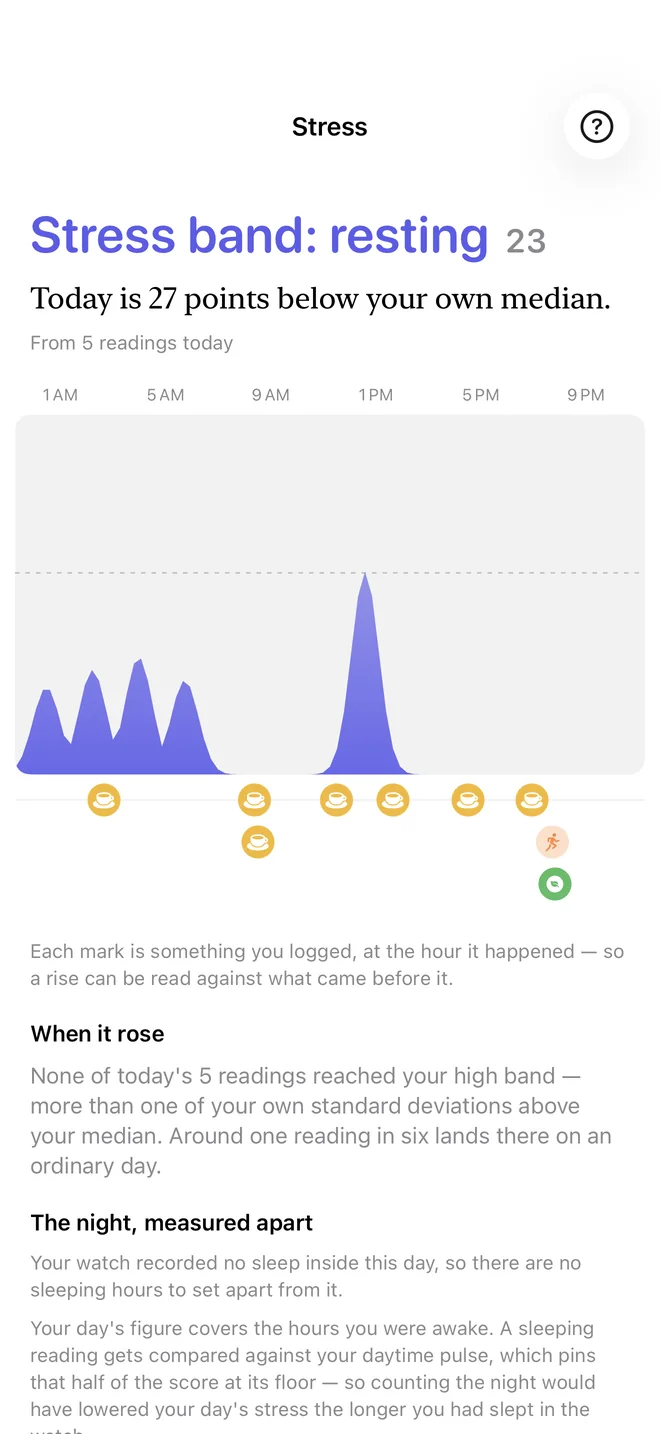
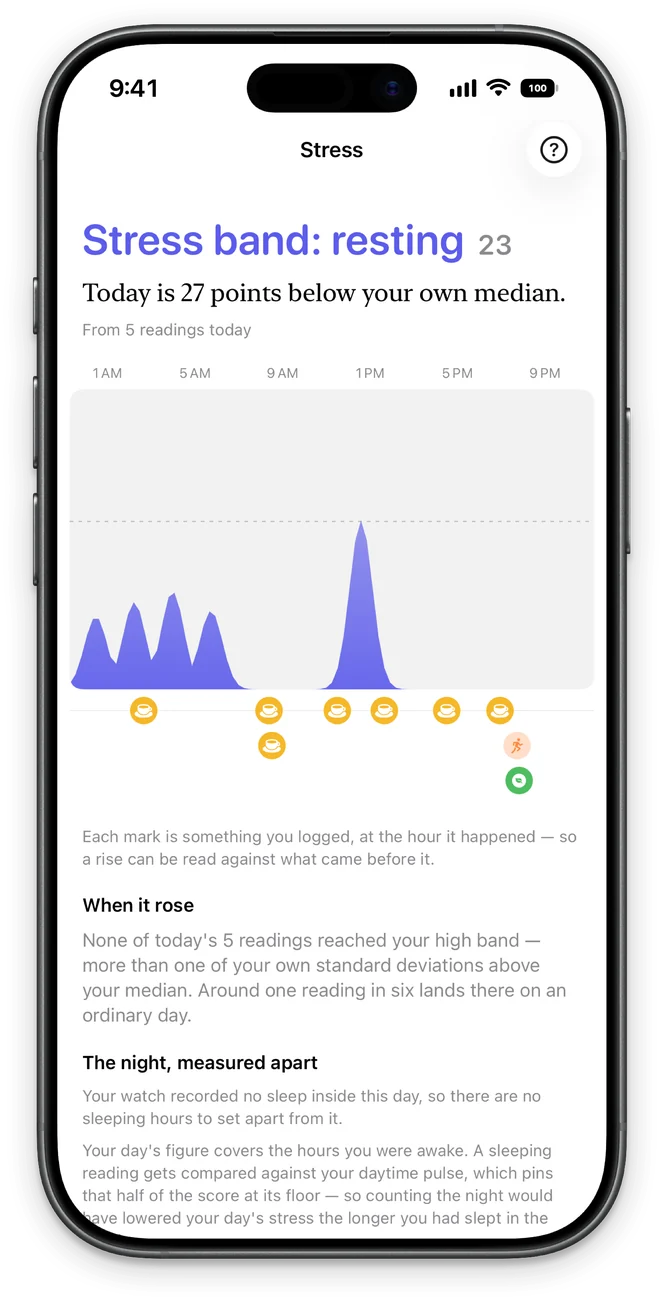
Las capturas, dentro de un iPhone 17 de verdad
Las dibuja SutoScreen con su CLI (`--render … --bezel black`): marco, isla dinámica,
barra de estado limpia y sombra. La transparencia sale de renderizar cada una dos
veces, sobre blanco y sobre negro lisos, y restar: el alfa es lo que cambia entre un
fondo y otro, así que la sombra conserva su transparencia real y el teléfono se
asienta sobre cualquier fondo de la página. Los tres idiomas, seis pantallas cada uno.

diff --git a/index.html b/index.html
@@ -97,7 +97,7 @@
       </div>
 
       <figure class="hero-phone">
-        <img class="shot" data-shot="1-hoy" src="assets/screens/es/1-hoy.webp" width="660" height="1434" alt="" fetchpriority="high">
+        <img class="shot" data-shot="1-hoy" src="assets/screens/es/1-hoy.webp" width="663" height="1300" alt="" fetchpriority="high">
       </figure>
     </div>
 
@@ -122,27 +122,27 @@
       <ol class="strip" tabindex="0" aria-label="Capturas">
         <li>
           <p class="strip-caption"><span lang="es">Tus cifras contra tu propia historia</span><span lang="en">Your numbers against your own history</span><span lang="fr">Vos chiffres face à votre propre histoire</span></p>
-          <img class="shot" data-shot="1-hoy" src="assets/screens/es/1-hoy.webp" width="660" height="1434" alt="" loading="lazy">
+          <img class="shot" data-shot="1-hoy" src="assets/screens/es/1-hoy.webp" width="663" height="1300" alt="" loading="lazy">
         </li>
         <li>
           <p class="strip-caption"><span lang="es">Cada número trae la cuenta que lo produjo</span><span lang="en">Every number shows the arithmetic behind it</span><span lang="fr">Chaque chiffre avec son calcul</span></p>
-          <img class="shot" data-shot="2-recuperacion" src="assets/screens/es/2-recuperacion.webp" width="660" height="1434" alt="" loading="lazy">
+          <img class="shot" data-shot="2-recuperacion" src="assets/screens/es/2-recuperacion.webp" width="663" height="1300" alt="" loading="lazy">
         </li>
         <li>
           <p class="strip-caption"><span lang="es">Lo que tu reloj mide mientras duermes</span><span lang="en">What your watch measures while you sleep</span><span lang="fr">Ce que votre montre mesure pendant votre sommeil</span></p>
-          <img class="shot" data-shot="3-noche" src="assets/screens/es/3-noche.webp" width="660" height="1434" alt="" loading="lazy">
+          <img class="shot" data-shot="3-noche" src="assets/screens/es/3-noche.webp" width="663" height="1300" alt="" loading="lazy">
         </li>
         <li>
           <p class="strip-caption"><span lang="es">Tu esfuerzo contra tus propias semanas</span><span lang="en">Your effort against your own weeks</span><span lang="fr">Votre effort face à vos propres semaines</span></p>
-          <img class="shot" data-shot="4-forma-fisica" src="assets/screens/es/4-forma-fisica.webp" width="660" height="1434" alt="" loading="lazy">
+          <img class="shot" data-shot="4-forma-fisica" src="assets/screens/es/4-forma-fisica.webp" width="663" height="1300" alt="" loading="lazy">
         </li>
         <li>
           <p class="strip-caption"><span lang="es">Agua, cafeína, creatina, proteína y comidas</span><span lang="en">Water, caffeine, creatine, protein and meals</span><span lang="fr">Eau, caféine, créatine, protéines et repas</span></p>
-          <img class="shot" data-shot="5-registro" src="assets/screens/es/5-registro.webp" width="660" height="1434" alt="" loading="lazy">
+          <img class="shot" data-shot="5-registro" src="assets/screens/es/5-registro.webp" width="663" height="1300" alt="" loading="lazy">
         </li>
         <li>
           <p class="strip-caption"><span lang="es">Sin cuenta y sin servidor</span><span lang="en">No account, no server</span><span lang="fr">Sans compte, sans serveur</span></p>
-          <img class="shot" data-shot="6-privacidad" src="assets/screens/es/6-privacidad.webp" width="660" height="1434" alt="" loading="lazy">
+          <img class="shot" data-shot="6-privacidad" src="assets/screens/es/6-privacidad.webp" width="663" height="1300" alt="" loading="lazy">
         </li>
       </ol>
       <div class="strip-nav">

diff --git a/styles.css b/styles.css
@@ -29,7 +29,6 @@
   --gutter: clamp(18px, 4vw, 40px);
   --measure: 34rem;
   --max: 1180px;
-  --radius-screen: 11%;
 }
 
 *,
@@ -170,16 +169,13 @@ h1 {
   text-wrap: pretty;
 }
 
-.hero-phone { margin: 0; justify-self: center; width: min(100%, 330px); }
+.hero-phone { margin: 0; justify-self: center; width: min(100%, 370px); }
 
-.shot {
-  border-radius: var(--radius-screen) / calc(var(--radius-screen) * 660 / 1434);
-  box-shadow:
-    0 0 0 1px rgba(26, 27, 51, 0.06),
-    0 30px 60px -28px rgba(26, 27, 51, 0.45),
-    0 12px 24px -16px rgba(26, 27, 51, 0.25);
-  background: var(--paper-2);
-}
+/* Las capturas van dentro de un iPhone 17 de verdad, con su marco, su isla y su sombra:
+   las dibuja SutoScreen (`--render … --bezel black`) y la transparencia sale de renderizar
+   dos veces, sobre blanco y sobre negro. Así el teléfono se asienta en cualquier fondo de
+   la página sin una caja alrededor. */
+.shot { width: 100%; }
 
 /* ── La barra de rango personal ─────────────────────────────────────────── */
 

diff --git a/tools/matte.py b/tools/matte.py
@@ -1,0 +1,21 @@
+import sys, numpy as np
+from PIL import Image
+w_path, b_path, out_path, height = sys.argv[1], sys.argv[2], sys.argv[3], int(sys.argv[4])
+W = np.asarray(Image.open(w_path).convert('RGB'), dtype=np.float64)
+B = np.asarray(Image.open(b_path).convert('RGB'), dtype=np.float64)
+bw = W[5, 5].copy(); bb = B[5, 5].copy()          # los dos fondos lisos
+span = (bw - bb)                                    # 238 por canal
+alpha = 1 - ((W - B) / span).mean(axis=2)
+alpha = np.clip(alpha, 0, 1)
+a3 = alpha[..., None]
+F = np.where(a3 > 1e-4, (B - (1 - a3) * bb) / np.maximum(a3, 1e-4), 0)
+F = np.clip(F, 0, 255)
+rgba = np.dstack([F, alpha * 255]).astype(np.uint8)
+im = Image.fromarray(rgba, 'RGBA')
+# recorte al teléfono con su sombra
+ys, xs = np.where(alpha > 0.004)
+box = (max(xs.min() - 8, 0), max(ys.min() - 8, 0), min(xs.max() + 8, im.width), min(ys.max() + 8, im.height))
+im = im.crop(box)
+im = im.resize((round(im.width * height / im.height), height), Image.LANCZOS)
+im.save(out_path, 'WEBP', quality=86, method=6, alpha_quality=90)
+print(out_path, im.size, 'caja', box)

diff --git a/README.md b/README.md
@@ -9,7 +9,7 @@ HTML, CSS y un poco de JavaScript, sin compilación. Se publica con GitHub Pages
 - `index.html`: la página, en español, inglés y francés. El idioma se elige solo según el navegador y se puede cambiar arriba a la derecha.
 - `styles.css`: la paleta y el tipo. Los colores son los de la app: el blanco frío de su fondo, la tinta índigo, el violeta y el naranja de su malla, el azul de acento y el turquesa.
 - `main.js`: el cambio de idioma (texto y capturas), la tira de capturas y la cabecera.
-- `assets/screens/{es,en,fr}/`: las seis capturas de la ficha, dibujadas por `StoreScreenshotTests` en el repositorio de la app con datos simulados, a 660 px de ancho en WebP.
+- `assets/screens/{es,en,fr}/`: las seis capturas de la ficha, dibujadas por `StoreScreenshotTests` en el repositorio de la app con datos simulados, **dentro de un iPhone 17** de SutoScreen, en WebP con transparencia (663 × 1300).
 - `assets/widgets/`: los widgets, recortados de `WidgetCatalogRenderTests` y `ReadinessWidgetRenderTests`.
 
 ## El héroe
@@ -19,4 +19,11 @@ La barra de rango personal: la franja es lo habitual para ti, el punto es hoy. E
 ## Actualizar las capturas
 
 1. En el repositorio de la app: `scripts/remote-build.sh <árbol> test -only-testing:MyHealthTests/StoreScreenshotTests`.
-2. Convertir `renders/tienda-69-<idioma>-<n>.png` a WebP de 660 px de ancho en `assets/screens/<idioma>/<n>.webp`.
+2. Meter cada `renders/tienda-69-<idioma>-<n>.png` en el iPhone con el CLI de SutoScreen, **dos veces**: sobre blanco y sobre negro liso.
+
+   ```sh
+   SutoScreen --render tienda.png blanco.png --ratio 9:16 --fit show-all --bezel black --ground studio-white --ground-style solid
+   SutoScreen --render tienda.png negro.png  --ratio 9:16 --fit show-all --bezel black --ground studio-black --ground-style solid
+   ```
+
+3. Sacar la transparencia por diferencia entre las dos (el alfa es lo que cambia entre un fondo y otro, así que la sombra del teléfono sale con su transparencia real), recortar al teléfono y guardar a 1300 px de alto en `assets/screens/<idioma>/<n>.webp`. El guion está en `tools/matte.py`.
